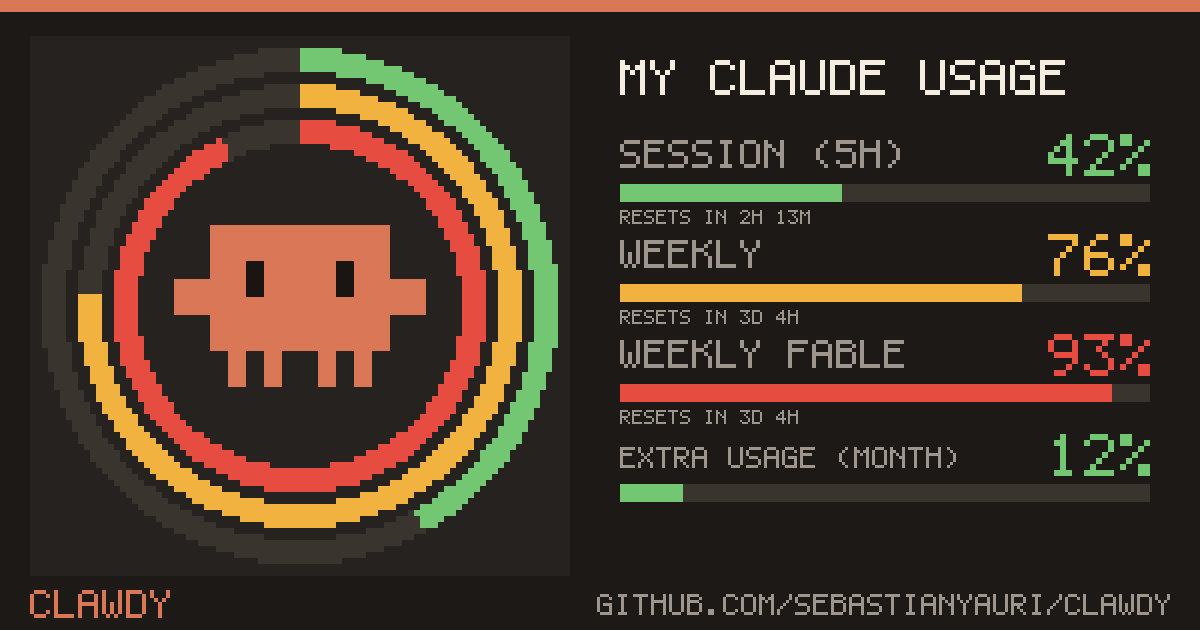
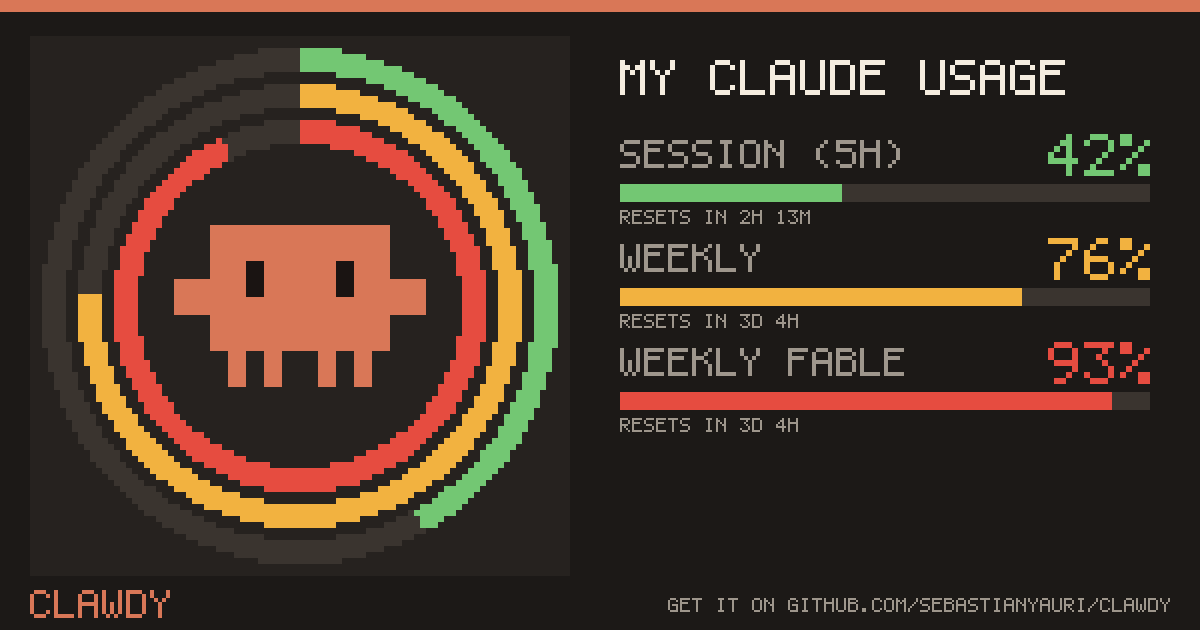
Card footer: Get it on github.com/…

Changed region(s): [[0.4933, 0.3619, 0.9558, 0.8143], [0.4933, 0.9349, 0.9867, 0.9952]]

diff --git a/clawdy_share.py b/clawdy_share.py
@@ -136,7 +136,7 @@ def draw_mascot(img, cx, cy, px):
                 img.rect(x0 + c * px, y0 + r * px, px, px, EYE if ch == "E" else ORANGE)
 
 
-def make_card(rows, title):
+def make_card(rows, title, footer=LINK):
     """rows: [(label, percent, rgb 0-1, reset text)]. Returns PNG bytes."""
     img = Image(W, H, BG)
     img.rect(0, 0, W, 12, ORANGE)                       # top stripe
@@ -169,7 +169,7 @@ def make_card(rows, title):
             draw_text(img, x, bar_y + 26, reset, 2, DIM)
         y += step
     draw_text(img, 30, 590, "CLAWDY", 4, ORANGE)
-    draw_text(img, 1170, 598, LINK, 2, DIM, "right")
+    draw_text(img, 1170, 598, footer, 2, DIM, "right")
     return img.png()
 
 

diff --git a/clawdy_i18n.py b/clawdy_i18n.py
@@ -100,6 +100,7 @@ STRINGS = {
     "task.permission": ("{where} · waiting for your permission", "{where} · espera tu permiso"),
     "task.ask_short": ("Needs you!", "¡Te necesita!"),
     "share.title": ("My Claude usage", "Mi uso de Claude"),
+    "share.footer": ("Get it on {link}", "Descárgalo en {link}"),
     "share.no_data": ("no usage yet", "aún sin datos"),
     "share.saved": ("image saved ✓", "imagen guardada ✓"),
     "share.failed": ("could not save it", "no se pudo guardar"),

diff --git a/clawdy_gui.py b/clawdy_gui.py
@@ -1175,7 +1175,7 @@ class Widget:
 
         def work():
             try:
-                path = clawdy_share.save_card(clawdy_share.make_card(rows, tr("share.title")))
+                path = clawdy_share.save_card(clawdy_share.make_card(rows, tr("share.title"), tr("share.footer", link=clawdy_share.LINK)))
             except Exception as e:
                 self.root.after(0, lambda: self.flash(tr("share.failed", e=str(e)[:40])))
                 return
